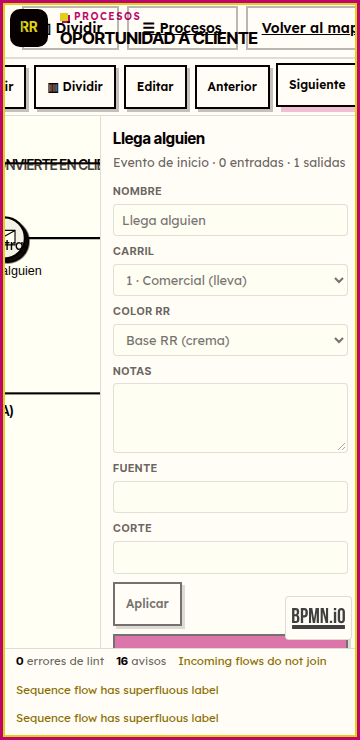
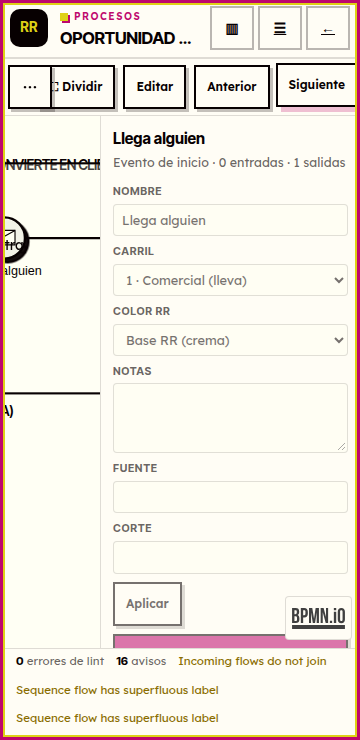
item 7+: quita «RR Labs» del Mapa vivo, deja BPMN a un toque en celular y registra las decisiones de Rosas

diff --git a/src/styles/bpmn.css b/src/styles/bpmn.css
@@ -488,9 +488,11 @@
 .bpmn-report__warn { color: #8a6d00; }
 
 @media (max-width: 760px) {
-  /* En móvil el acceso a BPMN llega por la tabbar (fase 6); el shell no crece. */
-  .top-actions [data-bpmn-link],
+  /* En móvil el acceso a BPMN llega por la tabbar (fase 6); el shell no crece.
+     Item 7 · mientras no exista la tabbar, el ícono ◇ de la barra superior
+     deja el BPMN a un toque (antes no había forma de abrirlo en el celular). */
   .rail-actions [data-bpmn-link-rail] { display: none; }
+  .top-actions [data-bpmn-link] { display: inline-flex; min-width: 44px; min-height: 44px; justify-content: center; }
   /* La paleta de bpmn-js venía en vertical y tapaba media pantalla: en móvil
      es una franja horizontal arriba, deslizable con el dedo. */
   .bpmn-canvas .djs-palette {

diff --git a/index.html b/index.html
@@ -84,7 +84,7 @@
 
       <section class="workspace" aria-label="Editor visual del mapa">
         <div class="toolbar">
-          <div class="toolbar-title"><span class="eyebrow">Vista editorial</span><strong>RR Labs <span>→</span> operación conectada</strong><nav class="breadcrumbs" data-breadcrumbs aria-label="Migas de pan"></nav></div>
+          <div class="toolbar-title"><span class="eyebrow">Vista editorial</span><strong>RR Aliados <span>→</span> Atlas operativo</strong><nav class="breadcrumbs" data-breadcrumbs aria-label="Migas de pan"></nav></div>
           <div class="toolbar-actions">
             <button class="button button-small" data-action="zoom-out" type="button" aria-label="Alejar">−</button>
             <output data-zoom aria-live="polite">100%</output>

diff --git a/docs/fusion/PREGUNTAS.md b/docs/fusion/PREGUNTAS.md
@@ -30,6 +30,30 @@ Formato: `TODO(Rosas): ...`
 - RESUELTO: «Volver al hub» oculto hasta que exista la URL real.
 - Nota: a Rosas le gusta el look actual del preview; conservarlo.
 
+## Preguntas que estas decisiones ya contestan
+- ~~Confirmar tipografía oficial~~ → RESUELTO (Inter Tight + Lexend).
+- ~~¿Mapa vivo o Inicio como entrada?~~ → RESUELTO: Mapa vivo.
+- ~~¿Cuál es el hub RR al que apunta «Volver al hub RR»?~~ → RESUELTO: el enlace queda oculto.
+- ~~Estado de los bots extra del árbol de B~~ → RESUELTO: Buen Puente y Becas de Exposición vigentes; Media Manager y Gains «sin confirmar».
+- ~~Confirmar lista canónica de clientes y estados~~ → RESUELTO: BOGA, Candilejas e IMF Weddings activos; los demás en pausa.
+- ~~¿Se reparan las 16 semillas BPMN hasta 0 avisos?~~ → RESUELTO: sí, se reparan.
+- ~~¿Se recuerda la preferencia de pantalla completa/partida?~~ → RESUELTO: abrir un diagrama es siempre pantalla completa.
+- ~~En móvil, ¿botón «⋯» con las acciones menos usadas?~~ → RESUELTO: sí, así quedó en el item 7.
+
+## Resueltas por Rosas (2026-11-02 19:22) — decisiones del bloque de cierre
+- RESUELTO: **Título y subtítulo** «RR Aliados · Atlas operativo» en todas partes (se quita «RR Labs» del Mapa vivo).
+- RESUELTO: **Fuentes** Inter Tight (títulos) + Lexend (cuerpo).
+- RESUELTO: **Entrada = Mapa vivo** (no la vista Inicio).
+- RESUELTO: **«Volver al hub» oculto** (hasta que exista la URL real del hub).
+- RESUELTO: **Se conserva el look actual** (el preview le gusta a Rosas).
+- RESUELTO: **Clientes** — BOGA, Candilejas e IMF Weddings **activos**; los demás **en pausa**. Se quita «Sin confirmar» del estado de clientes.
+- RESUELTO: **Guías de diagrama provisionales**, con aviso visible «Guía provisional».
+- RESUELTO: **Leyenda** separada: tareas de bot y tareas de persona, con ícono distinto.
+- RESUELTO: **Reparar las 16 semillas BPMN** hasta 0 avisos de lint (incluido `no-gateway-join-fork`).
+- RESUELTO: **Abrir un diagrama = siempre pantalla completa.**
+- RESUELTO: **Bots vigentes** — Buen Puente y Becas de Exposición; Media Manager y Gains quedan «sin confirmar».
+- RESUELTO: **Lo menor** (estados vacíos, catálogo, tamaños) se decide con el criterio más profesional, sin preguntar.
+
 ## Abiertas por el bloque 4 (2026-11-02, item 4)
 - TODO(Rosas): La ficha de cada diagrama (qué busca, disparador, resultado y el camino paso a paso) sale del guion de procesos del mega prompt §6. ¿Se revisa esa redacción o se deja como texto de lectura provisional hasta que el equipo la valide?
 - TODO(Rosas): La leyenda de colores dice qué significa cada color RR (crema = paso normal, fucsia = se traba, mostaza = atención, orquídea = carriles, gris = datos). ¿Es la convención que quiere la marca o se cambia?
